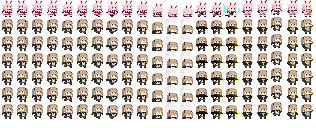
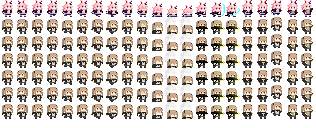
도트, 장비들 수정

Changed region(s): [[0.0, 0.0, 0.9968, 0.1562]]

diff --git a/core/src/main/java/com/gfpixel/gfpixeldungeon/actors/hero/HeroClass.java b/core/src/main/java/com/gfpixel/gfpixeldungeon/actors/hero/HeroClass.java
@@ -32,6 +32,7 @@ import com.gfpixel.gfpixeldungeon.items.Item;
 import com.gfpixel.gfpixeldungeon.items.armor.ClothArmor;
 import com.gfpixel.gfpixeldungeon.items.armor.PlateArmor;
 import com.gfpixel.gfpixeldungeon.items.artifacts.CloakOfShadows;
+import com.gfpixel.gfpixeldungeon.items.bags.MagicalHolster;
 import com.gfpixel.gfpixeldungeon.items.bags.PotionBandolier;
 import com.gfpixel.gfpixeldungeon.items.bags.ScrollHolder;
 import com.gfpixel.gfpixeldungeon.items.bags.VelvetPouch;
@@ -39,11 +40,15 @@ import com.gfpixel.gfpixeldungeon.items.food.Food;
 import com.gfpixel.gfpixeldungeon.items.food.Pasty;
 import com.gfpixel.gfpixeldungeon.items.food.SmallRation;
 import com.gfpixel.gfpixeldungeon.items.potions.PotionOfHealing;
+import com.gfpixel.gfpixeldungeon.items.potions.PotionOfInvisibility;
 import com.gfpixel.gfpixeldungeon.items.potions.PotionOfMindVision;
 import com.gfpixel.gfpixeldungeon.items.scrolls.ScrollOfMagicMapping;
+import com.gfpixel.gfpixeldungeon.items.scrolls.ScrollOfRecharging;
 import com.gfpixel.gfpixeldungeon.items.scrolls.ScrollOfUpgrade;
+import com.gfpixel.gfpixeldungeon.items.wands.M79;
 import com.gfpixel.gfpixeldungeon.items.wands.WandOfMagicMissile;
 import com.gfpixel.gfpixeldungeon.items.weapon.melee.Cannon;
+import com.gfpixel.gfpixeldungeon.items.weapon.melee.Crossbow;
 import com.gfpixel.gfpixeldungeon.items.weapon.melee.Dagger;
 import com.gfpixel.gfpixeldungeon.items.weapon.melee.Knuckles;
 import com.gfpixel.gfpixeldungeon.items.weapon.melee.MagesStaff;
@@ -129,6 +134,7 @@ public enum HeroClass {
 
 	private static void initWarrior( Hero hero ) {
 		(hero.belongings.weapon = new WornShortsword()).identify();
+		new PotionOfHealing().identify().collect();
 		ThrowingStone stones = new ThrowingStone();
 		stones.identify().quantity(3).collect();
 		Dungeon.quickslot.setSlot(0, stones);
@@ -152,14 +158,15 @@ public enum HeroClass {
 		MagesStaff staff;
 		
 		staff = new MagesStaff(new WandOfMagicMissile());
+		new ScrollOfRecharging().identify().collect();
 
 		(hero.belongings.weapon = staff).identify();
 		hero.belongings.weapon.activate(hero);
 
 		Dungeon.quickslot.setSlot(0, staff);
 
-		new ScrollHolder().collect();
-		Dungeon.LimitedDrops.SCROLL_HOLDER.drop();
+		new MagicalHolster().collect();
+		Dungeon.LimitedDrops.MAGICAL_HOLSTER.drop();
 		new ScrollOfUpgrade().identify();
 	}
 
@@ -169,6 +176,7 @@ public enum HeroClass {
 		CloakOfShadows cloak = new CloakOfShadows();
 		(hero.belongings.misc1 = cloak).identify();
 		hero.belongings.misc1.activate( hero );
+		new PotionOfInvisibility().identify().collect();
 
 		ThrowingKnife knives = new ThrowingKnife();
 		knives.quantity(3).collect();
@@ -176,16 +184,20 @@ public enum HeroClass {
 		Dungeon.quickslot.setSlot(0, cloak);
 		Dungeon.quickslot.setSlot(1, knives);
 
-		new VelvetPouch().collect();
-		Dungeon.LimitedDrops.VELVET_POUCH.drop();
-		new ScrollOfMagicMapping().identify();
+		new ScrollHolder().collect();
+		Dungeon.LimitedDrops.SCROLL_HOLDER.drop();
+		new ScrollOfUpgrade().identify();
 	}
 
 	private static void initHuntress( Hero hero ) {
 
-		(hero.belongings.weapon = new Knuckles()).identify();
+		(hero.belongings.weapon = new Boomerang()).identify();
 		Boomerang boomerang = new Boomerang();
 		boomerang.identify().collect();
+		M79 m79 = new M79();
+		m79.identify().collect();
+		new Crossbow().identify().collect();
+
 
 		Dungeon.quickslot.setSlot(0, boomerang);
 
@@ -193,7 +205,7 @@ public enum HeroClass {
 		Dungeon.LimitedDrops.VELVET_POUCH.drop();
 		new PotionOfMindVision().identify();
 	}
-	
+
 	public String title() {
 		return Messages.get(HeroClass.class, title);
 	}

diff --git a/core/src/main/java/com/gfpixel/gfpixeldungeon/items/weapon/melee/Knuckles.java b/core/src/main/java/com/gfpixel/gfpixeldungeon/items/weapon/melee/Knuckles.java
@@ -29,15 +29,11 @@ public class Knuckles extends MeleeWeapon {
 		image = ItemSpriteSheet.KNUCKLEDUSTER;
 
 		tier = 1;
-		DLY = 0.5f; //2x speed
-		
-		bones = false;
 	}
 
 	@Override
 	public int max(int lvl) {
-		return  (int)(2.5f*(tier+1)) +  //5 base, down from 10
-				lvl*tier;               //+1 per level, down from +2
+		return  4*(tier+1) +    //20 base, down from 25
+				lvl*(tier);     //+4 per level, down from +5
 	}
-
 }

diff --git a/core/src/main/java/com/gfpixel/gfpixeldungeon/items/weapon/melee/Crossbow.java b/core/src/main/java/com/gfpixel/gfpixeldungeon/items/weapon/melee/Crossbow.java
@@ -24,15 +24,15 @@ package com.gfpixel.gfpixeldungeon.items.weapon.melee;
 import com.gfpixel.gfpixeldungeon.sprites.ItemSpriteSheet;
 
 public class Crossbow extends MeleeWeapon {
-	
+
 	{
 		image = ItemSpriteSheet.CROSSBOW;
-		
+
 		//check Dart.class for additional properties
-		
+
 		tier = 4;
 	}
-	
+
 	@Override
 	public int max(int lvl) {
 		return  4*(tier+1) +    //20 base, down from 25

diff --git a/core/src/main/java/com/gfpixel/gfpixeldungeon/items/weapon/melee/Ump45.java b/core/src/main/java/com/gfpixel/gfpixeldungeon/items/weapon/melee/Ump45.java
@@ -35,7 +35,7 @@ public class Ump45 extends MeleeWeapon {
 
     @Override
     public int max(int lvl) {
-        return  4*(tier+1) +    //8 base, down from 10
+        return  5*(tier+1) +    //8 base, down from 10
                 lvl*(tier+1);   //scaling unchanged
     }
 

diff --git a/core/src/main/java/com/gfpixel/gfpixeldungeon/items/weapon/missiles/Shuriken.java b/core/src/main/java/com/gfpixel/gfpixeldungeon/items/weapon/missiles/Shuriken.java
@@ -33,12 +33,12 @@ public class Shuriken extends MissileWeapon {
 
 	@Override
 	public int min(int lvl) {
-		return 4;
+		return 6;
 	}
 
 	@Override
 	public int max(int lvl) {
-		return 6;
+		return 9;
 	}
 
 	@Override
